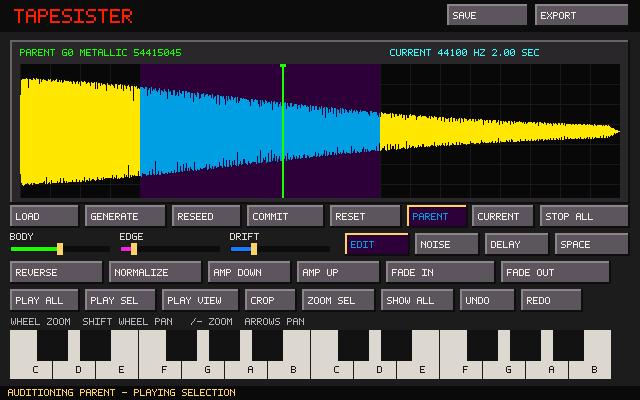
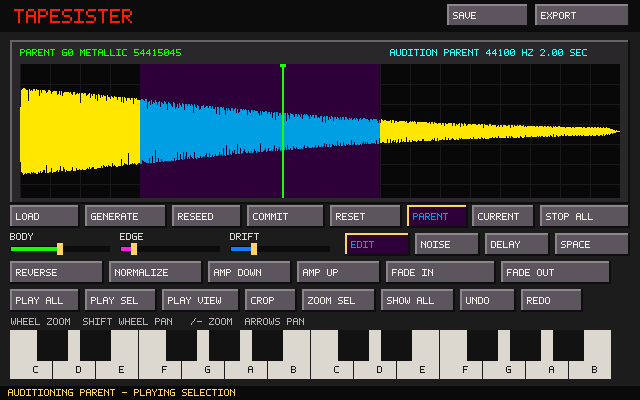
Update waveform when switching A/B audition

Changed region(s): [[0.0312, 0.18, 0.9688, 0.48], [0.625, 0.12, 0.7812, 0.15], [0.8125, 0.12, 0.9062, 0.15]]

diff --git a/src/ts_ui.c b/src/ts_ui.c
@@ -228,9 +228,16 @@ static int frame_x(size_t frame_index, size_t view_first, size_t view_last)
 
 void ts_ui_render(TsFramebuffer *fb, const TsUiState *ui, const TsInstrument *instrument)
 {
-    const TsSample *sample = &instrument->current;
-    size_t view_first = instrument->view_first;
-    size_t view_last = instrument->view_last;
+    int showing_parent = ui->audition_source == TS_AUDITION_PARENT;
+    const TsSample *sample = showing_parent ? &instrument->parent : &instrument->current;
+    size_t view_first = showing_parent ? 0 : instrument->view_first;
+    size_t view_last = showing_parent ? instrument->parent.frames : instrument->view_last;
+    size_t selection_first = instrument->selection_first;
+    size_t selection_last = instrument->selection_last;
+    if (showing_parent) {
+        selection_first += instrument->crop_first;
+        selection_last += instrument->crop_first;
+    }
     clear(fb, PAL_DESKTOP);
 
     rect(fb, 0, 0, TS_UI_WIDTH, 32, RGB(12, 12, 12));
@@ -243,8 +250,9 @@ void ts_ui_render(TsFramebuffer *fb, const TsUiState *ui, const TsInstrument *in
         char parent[96], info[112];
         snprintf(parent, sizeof(parent), "PARENT G%u %.28s",
                  instrument->generation, instrument->parent.name);
-        snprintf(info, sizeof(info), "CURRENT %u HZ %.2F SEC",
-                 sample->sample_rate, (double)sample->frames / sample->sample_rate);
+        snprintf(info, sizeof(info), "AUDITION %s %u HZ %.2F SEC",
+                 showing_parent ? "PARENT" : "CURRENT", sample->sample_rate,
+                 (double)sample->frames / sample->sample_rate);
         text(fb, 20, 49, parent, PAL_INSTRUMENT, 1);
         text(fb, 390, 49, info, PAL_EFFECT, 1);
     } else {
@@ -258,10 +266,10 @@ void ts_ui_render(TsFramebuffer *fb, const TsUiState *ui, const TsInstrument *in
         rect(fb, TS_WAVE_X, y, TS_WAVE_W, 1, RGB(26, 24, 27));
     rect(fb, TS_WAVE_X, TS_WAVE_Y + TS_WAVE_H / 2, TS_WAVE_W, 1, RGB(74, 67, 75));
 
-    if (instrument->has_selection && instrument->selection_last > view_first &&
-        instrument->selection_first < view_last) {
-        int sx0 = frame_x(instrument->selection_first, view_first, view_last);
-        int sx1 = frame_x(instrument->selection_last, view_first, view_last);
+    if (instrument->has_selection && selection_last > view_first &&
+        selection_first < view_last) {
+        int sx0 = frame_x(selection_first, view_first, view_last);
+        int sx1 = frame_x(selection_last, view_first, view_last);
         rect(fb, sx0, TS_WAVE_Y, sx1 - sx0, TS_WAVE_H, PAL_BLOCK);
     }
     if (sample->frames && view_last > view_first) {
@@ -279,8 +287,8 @@ void ts_ui_render(TsFramebuffer *fb, const TsUiState *ui, const TsInstrument *in
             int y0 = middle - (int)(high * (TS_WAVE_H / 2 - 6));
             int y1 = middle - (int)(low * (TS_WAVE_H / 2 - 6));
             size_t at = begin;
-            uint32_t color = instrument->has_selection && at >= instrument->selection_first &&
-                             at < instrument->selection_last ? PAL_BLOCK_TEXT : PAL_NOTE;
+            uint32_t color = instrument->has_selection && at >= selection_first &&
+                             at < selection_last ? PAL_BLOCK_TEXT : PAL_NOTE;
             line(fb, TS_WAVE_X + x, y0, TS_WAVE_X + x, y1, color);
         }
     } else {
@@ -291,11 +299,8 @@ void ts_ui_render(TsFramebuffer *fb, const TsUiState *ui, const TsInstrument *in
         int playhead_x = -1;
         uint32_t playhead_color = ui->playhead_source == TS_AUDITION_PARENT ?
                                   PAL_INSTRUMENT : PAL_MOUSE;
-        if (ui->playhead_source == TS_AUDITION_PARENT) {
-            size_t frame_index = ui->playhead_frame > ui->playhead_frames ?
-                                 ui->playhead_frames : ui->playhead_frame;
-            playhead_x = TS_WAVE_X + (int)(frame_index * TS_WAVE_W / ui->playhead_frames);
-        } else if (ui->playhead_frame >= view_first && ui->playhead_frame <= view_last) {
+        if (ui->playhead_source == ui->audition_source &&
+            ui->playhead_frame >= view_first && ui->playhead_frame <= view_last) {
             playhead_x = frame_x(ui->playhead_frame, view_first, view_last);
         }
         if (playhead_x >= TS_WAVE_X && playhead_x <= TS_WAVE_X + TS_WAVE_W) {

diff --git a/tests/test_core.c b/tests/test_core.c
@@ -25,6 +25,18 @@ static int framebuffer_contains(const TsFramebuffer *fb, uint32_t color)
     return 0;
 }
 
+static uint64_t waveform_hash(const TsFramebuffer *fb)
+{
+    uint64_t hash = 1469598103934665603ull;
+    for (int y = TS_WAVE_Y; y < TS_WAVE_Y + TS_WAVE_H; ++y) {
+        for (int x = TS_WAVE_X; x < TS_WAVE_X + TS_WAVE_W; ++x) {
+            hash ^= fb->pixels[y * TS_UI_WIDTH + x];
+            hash *= 1099511628211ull;
+        }
+    }
+    return hash;
+}
+
 static int file_contains(const char *path, const char *needle)
 {
     FILE *f = fopen(path, "rb");
@@ -349,6 +361,13 @@ int main(void)
     CHECK(framebuffer_contains(&fb, 0xffffe700u));
     CHECK(framebuffer_contains(&fb, 0xff2d0039u));
     CHECK(framebuffer_contains(&fb, 0xff009ee3u));
+    {
+        uint64_t current_waveform = waveform_hash(&fb);
+        ui.audition_source = TS_AUDITION_PARENT;
+        ts_ui_render(&fb, &ui, &imported);
+        CHECK(waveform_hash(&fb) != current_waveform);
+        ui.audition_source = TS_AUDITION_CURRENT;
+    }
     ui.playback_active = 1;
     ui.playhead_source = TS_AUDITION_CURRENT;
     ui.playhead_frame = imported.current.frames / 2;
@@ -358,6 +377,7 @@ int main(void)
     CHECK(fb.pixels[(TS_WAVE_Y + 1) * TS_UI_WIDTH + TS_WAVE_X + TS_WAVE_W / 2] ==
           0xffffd265u);
     ui.playhead_source = TS_AUDITION_PARENT;
+    ui.audition_source = TS_AUDITION_PARENT;
     ui.playhead_frame = imported.parent.frames / 2;
     ui.playhead_frames = imported.parent.frames;
     ts_ui_render(&fb, &ui, &imported);

diff --git a/README.md b/README.md
@@ -19,7 +19,7 @@ Dragging or loading a WAV makes that WAV the Parent. Moving a processing control
 
 ## A/B audition and playhead
 
-The **Parent** and **Current** buttons choose what every playback trigger auditions without changing the editing target: edits, Save, and Export always operate on Current. `Ctrl+B` toggles the same selector.
+The **Parent** and **Current** buttons choose what every playback trigger auditions without changing the editing target: edits, Save, and Export always operate on Current. `Ctrl+B` toggles the same selector. The waveform switches with the audition source, showing the full immutable Parent or Current's active editor view.
 
 Play All and keyboard notes use the complete chosen source. Play Selection and Play Displayed map Current's crop-relative range back to the matching frames in Parent, so comparisons remain meaningful after cropping. Switching Parent/Current during playback preserves fractional progress through the active range instead of restarting it.
 

diff --git a/docs/X220_CHECKLIST.md b/docs/X220_CHECKLIST.md
@@ -61,6 +61,7 @@ This is a musical and interaction checkpoint. Passing tests alone is not approva
 ## A/B audition and playhead
 
 - [ ] Current is selected by default; Parent and Current buttons plus `Ctrl+B` switch the audition source without changing Current.
+- [ ] The waveform changes immediately with the A/B selector: Parent shows the full Parent and Current restores the active Current editor view.
 - [ ] Play All, Play Selection, Play Displayed, computer keys, and onscreen keys all use the chosen audition source.
 - [ ] After Crop, Parent selection/displayed audition maps to the matching uncropped Parent frames.
 - [ ] Switching Parent/Current during playback preserves relative progress rather than restarting.
